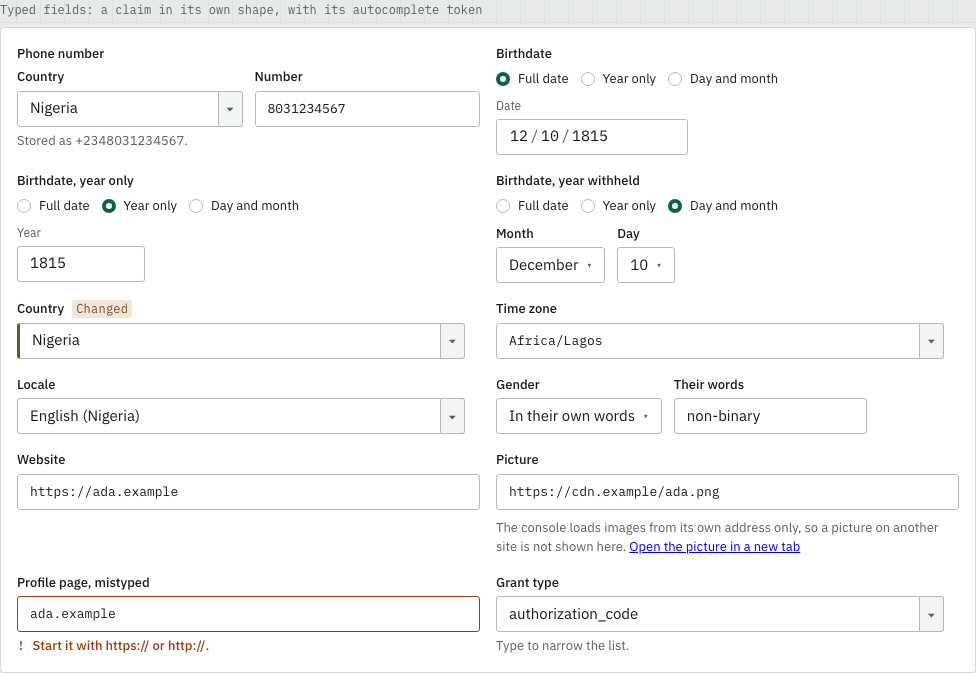
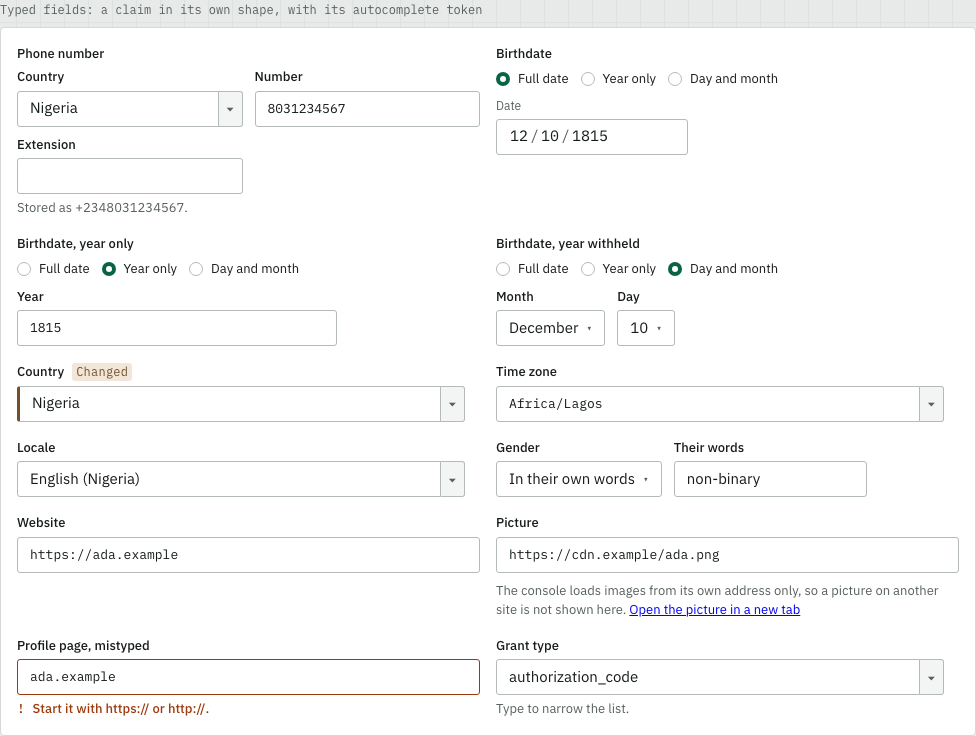
Reshoot the gallery with the phone's extension and a refused edit

diff --git a/apps/admin-console/src/gallery/Gallery.tsx b/apps/admin-console/src/gallery/Gallery.tsx
@@ -499,6 +499,12 @@ function ViewOnly() {
       <ReadOnlyFields when>
         <TextField label="Full name" value="Ada Lovelace" onChange={NOTHING} />
         <TextField label="Nickname" value="" onChange={NOTHING} />
+        <TextField
+          label="Middle name, an edit refused"
+          value="Augusta"
+          changed
+          onChange={NOTHING}
+        />
         <PhoneField label="Phone number" value={CLAIMS.phone} onChange={NOTHING} />
         <BirthdateField label="Birthdate" value={CLAIMS.birthdate} onChange={NOTHING} />
         <LocaleField label="Locale" value={CLAIMS.locale} onChange={NOTHING} />
